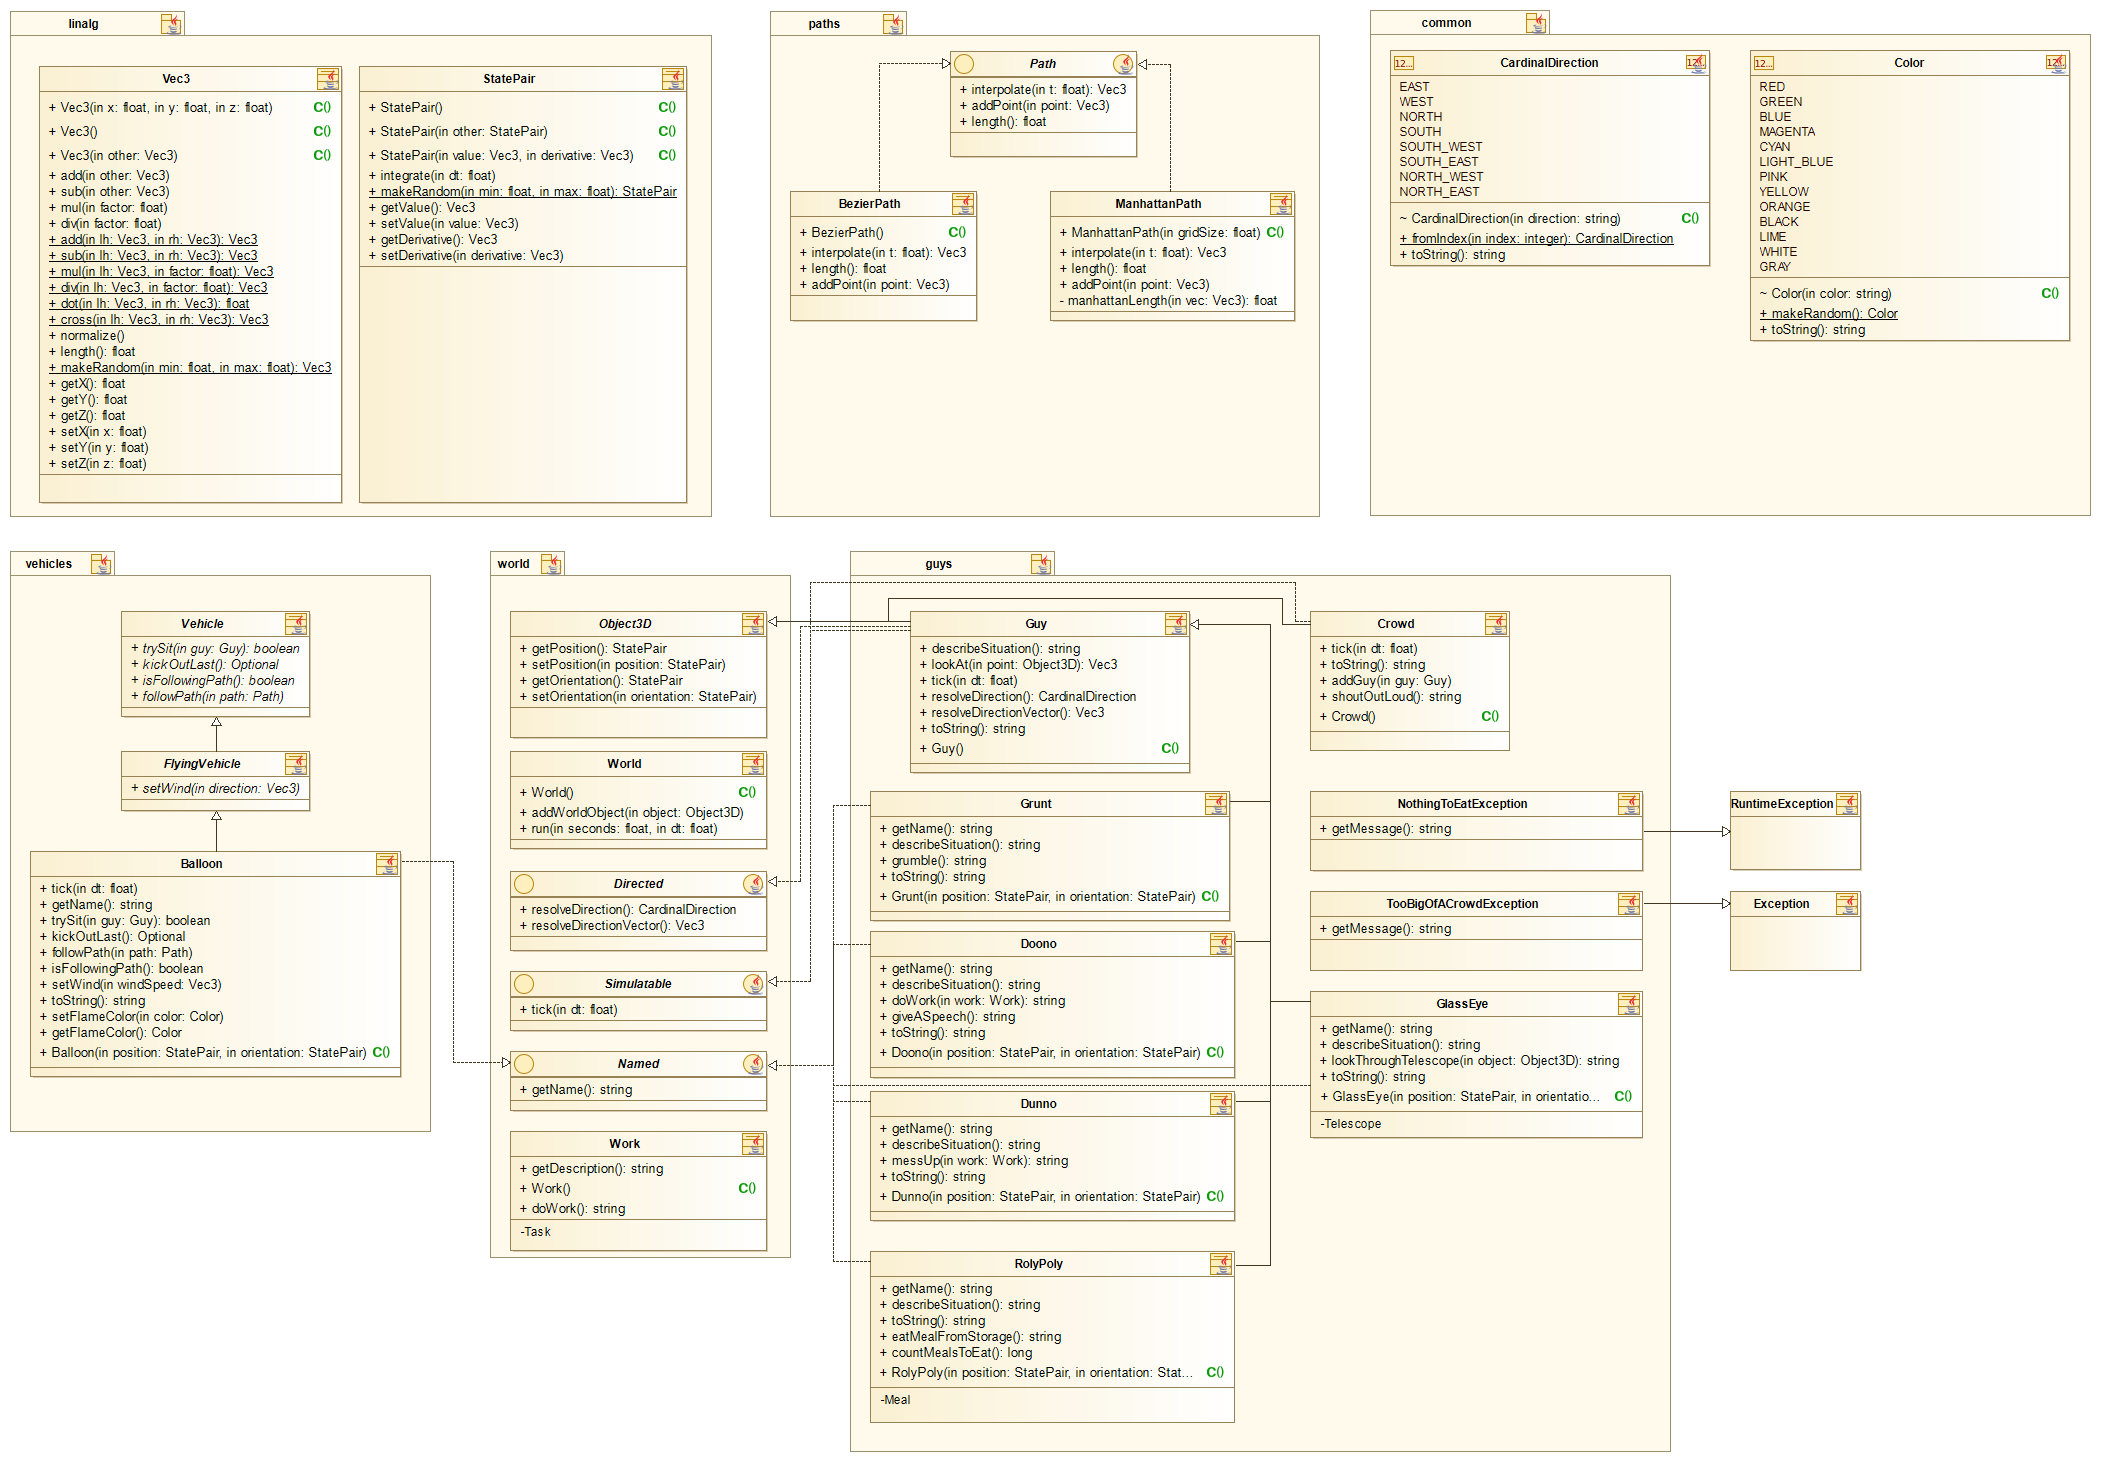
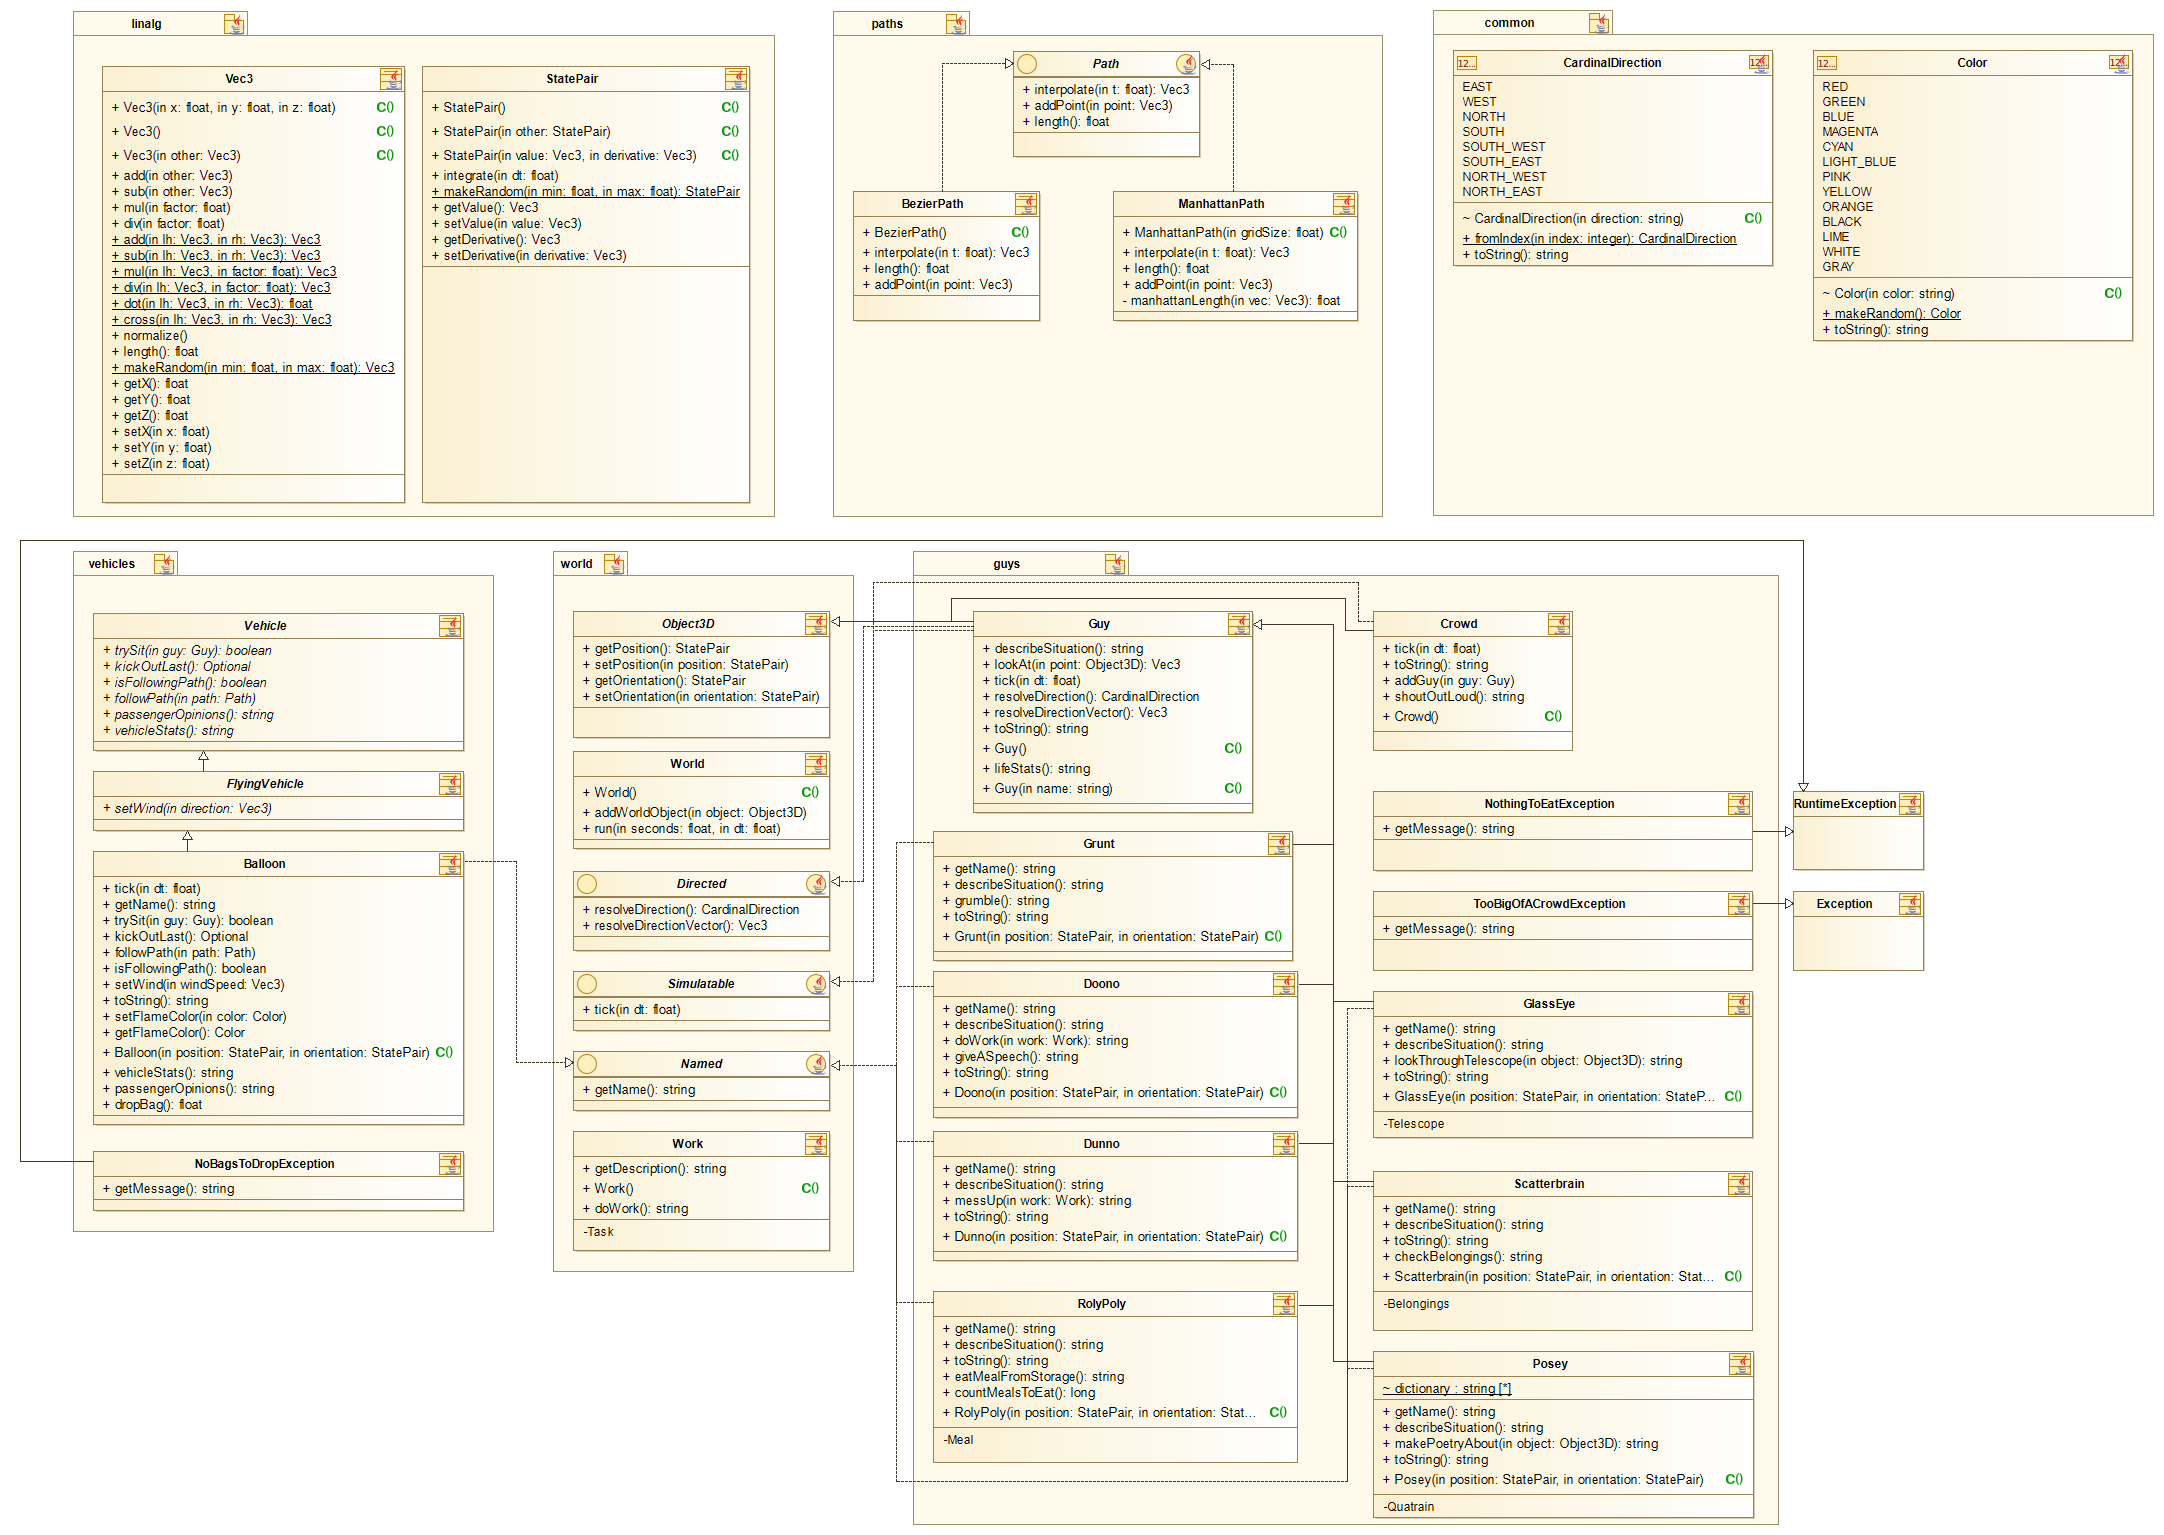
Maybe the last commit here

Changed region(s): [[0.0, 0.0, 0.99, 1.0], [0.99, 0.3078, 1.0, 0.3386]]

diff --git a/JavaLab3/src/guys/Posey.java b/JavaLab3/src/guys/Posey.java
@@ -23,8 +23,26 @@ public class Posey extends Guy implements Named {
 		return "Listen! I've made a new poem";
 	}
 
+	private static class Quatrain {
+		Quatrain(String name) {
+			body = "\n";
+			for (int i = 0; i < 4; i++) {
+				String formatString = dictionary[(int)(Math.random() * dictionary.length) %dictionary.length];
+				body += "\t" + String.format(formatString, name);
+				if (i < 3) body += '\n';
+			}
+		}
+
+		String getBody() {
+			return body;
+		}
+
+		private String body;
+	}
+
 	/**
 	* @brief Makes poetry about an object
+	* @param Object to write poem about
 	* @return Couple of quatrains
 	*/
 	public final String makePoetryAbout(Object3D object) { 
@@ -35,28 +53,10 @@ public class Posey extends Guy implements Named {
 			name = object.toString();
 		}
 
-		class Quatrain {
-
-			Quatrain() {
-				body = "\n";
-				for (int i = 0; i < 4; i++) {
-					String formatString = dictionary[(int)(Math.random() * dictionary.length) % dictionary.length];
-					body += "\t" + String.format(formatString, name);
-					if (i < 3) body += '\n';
-				}
-			}
-
-			String getBody() {
-				return body;
-			}
-
-			private String body;
-		}
-
 		String ret = "";
 		int poemSize = (int)(Math.random() * 3);
 		for (int i = 0; i < poemSize; i++) {
-			Quatrain quatrain = new Quatrain();
+			Quatrain quatrain = new Quatrain(name);
 			ret += quatrain.getBody();
 			if (i < poemSize - 1) ret += '\n';
 		}

diff --git a/JavaLab3/src/guys/Scatterbrain.java b/JavaLab3/src/guys/Scatterbrain.java
@@ -27,12 +27,12 @@ public class Scatterbrain extends Guy implements Named {
         public Belongings() {
             final String[] names = {
                 "Hat",
-                "Pet",
                 "Rat",
-                "Bat",
                 "Cat",
-                "Fat",
                 "Gat",
+                "Fat",
+                "Bat",
+                "Pet",
                 "Oat"
             };
 
@@ -40,17 +40,20 @@ public class Scatterbrain extends Guy implements Named {
             chanceToDrop = (float)Math.random();
         }
 
+        /**
+        * @brief Retrieve chane of dropping
+        * @return Chance of dropping
+        */
         public float getChanceToDrop() {
             return chanceToDrop;
         }
 
+        /**
+        * @brief Retrieve name
+        * @return Name
+        */
         public String getName() {
             return name;
-        }
-
-        @Override
-        public boolean equals(Object other) {
-            return other instanceof Belongings && chanceToDrop == ((Belongings)other).chanceToDrop && name.equals(((Belongings)other).name);
         }
 
         private String name;

diff --git a/JavaLab3/src/Main.java b/JavaLab3/src/Main.java
@@ -51,7 +51,11 @@ public class Main {
 			boolean allAreSitting = true;
 			allAreSitting |= balloon.trySit(new Guy("Tinkle"));
 			allAreSitting |= balloon.trySit(new Guy("PeeWee"));
+			allAreSitting |= balloon.trySit(new Guy("Swifty"));
 			allAreSitting |= balloon.trySit(new Guy("Daisy"));
+			allAreSitting |= balloon.trySit(new Guy("TreaclySweeter"));
+			allAreSitting |= balloon.trySit(new Guy("Nebos'ka"));
+			allAreSitting |= balloon.trySit(new Guy("Avos'ka"));
 			System.out.print(allAreSitting ? "All of the guys are in the balloon\n" : "Guys are out of the balloon\n");
 			world.addWorldObject(balloon);
 		}
@@ -76,7 +80,7 @@ public class Main {
 		world.addWorldObject(new RolyPoly(new StatePair(), new StatePair(new Vec3(), new Vec3(0, 0, 1))));
 		world.addWorldObject(new Scatterbrain(new StatePair(), new StatePair(new Vec3(), new Vec3(0, 0, 1))));
 		world.addWorldObject(new Posey(new StatePair(), new StatePair(new Vec3(), new Vec3(0, 0, 1))));
-		world.addWorldObject(new Guy());
+		world.addWorldObject(new Guy("Topick"));
 		world.run(15.f, 0.2f);
 
 	}

diff --git a/JavaLab3/src/guys/Guy.java b/JavaLab3/src/guys/Guy.java
@@ -21,6 +21,10 @@ public class Guy extends Object3D implements Directed, Simulatable {
 		return "Life is not that bad";
 	}
 
+	/**
+	* @brief Position related life stats
+	* @return Life stats
+	*/
 	public String lifeStats() {
 		float height = position.getValue().getZ();
 
@@ -30,8 +34,10 @@ public class Guy extends Object3D implements Directed, Simulatable {
 			return "It's dead cold out there, my pants are full of ice";
 		else if (height > 1e3)
 			return "It's kinda cold out there";
+		else if (height > 5e2)
+			return "Cant's see anything because of clouds";
 
-		return "Everything is ok";
+		return "Everything looks beautiful!";
 	}
 
 	/**

diff --git a/JavaLab3/src/vehicles/Balloon.java b/JavaLab3/src/vehicles/Balloon.java
@@ -169,7 +169,7 @@ public class Balloon extends FlyingVehicle implements Named {
 		this.orientation = new StatePair(orientation);
 						 
 		this.windSpeed   = new Vec3();
-		this.mass        = 100.f;
+		this.mass        = 10.f;
 		this.guys        = new Guy[MAX_GUYS];
 		this.guysCount   = 0;
 		this.flameColor  = Color.ORANGE;

diff --git a/JavaLab3/src/world/World.java b/JavaLab3/src/world/World.java
@@ -134,7 +134,7 @@ public class World {
 					((FlyingVehicle)object).setWind(windSpeed);
 				}
 
-				if (object instanceof FlyingVehicle && Math.random() < threshold) {
+				if (object instanceof Vehicle && Math.random() < threshold) {
 					System.out.printf("%s stats: %s\n", name, ((Vehicle)object).vehicleStats());
 				}
 

diff --git a/JavaLab3/src/guys/GlassEye.java b/JavaLab3/src/guys/GlassEye.java
@@ -37,7 +37,8 @@ public class GlassEye extends Guy implements Named {
 	}
 
 	/**
-	* @brief  Looks lookt hroughhis telescope on to the object
+	* @brief  Looks look through his telescope on to the object
+	* @param Object to look at
 	* @return What he sees
 	*/
 	public final String lookThroughTelescope(Object3D object) {
